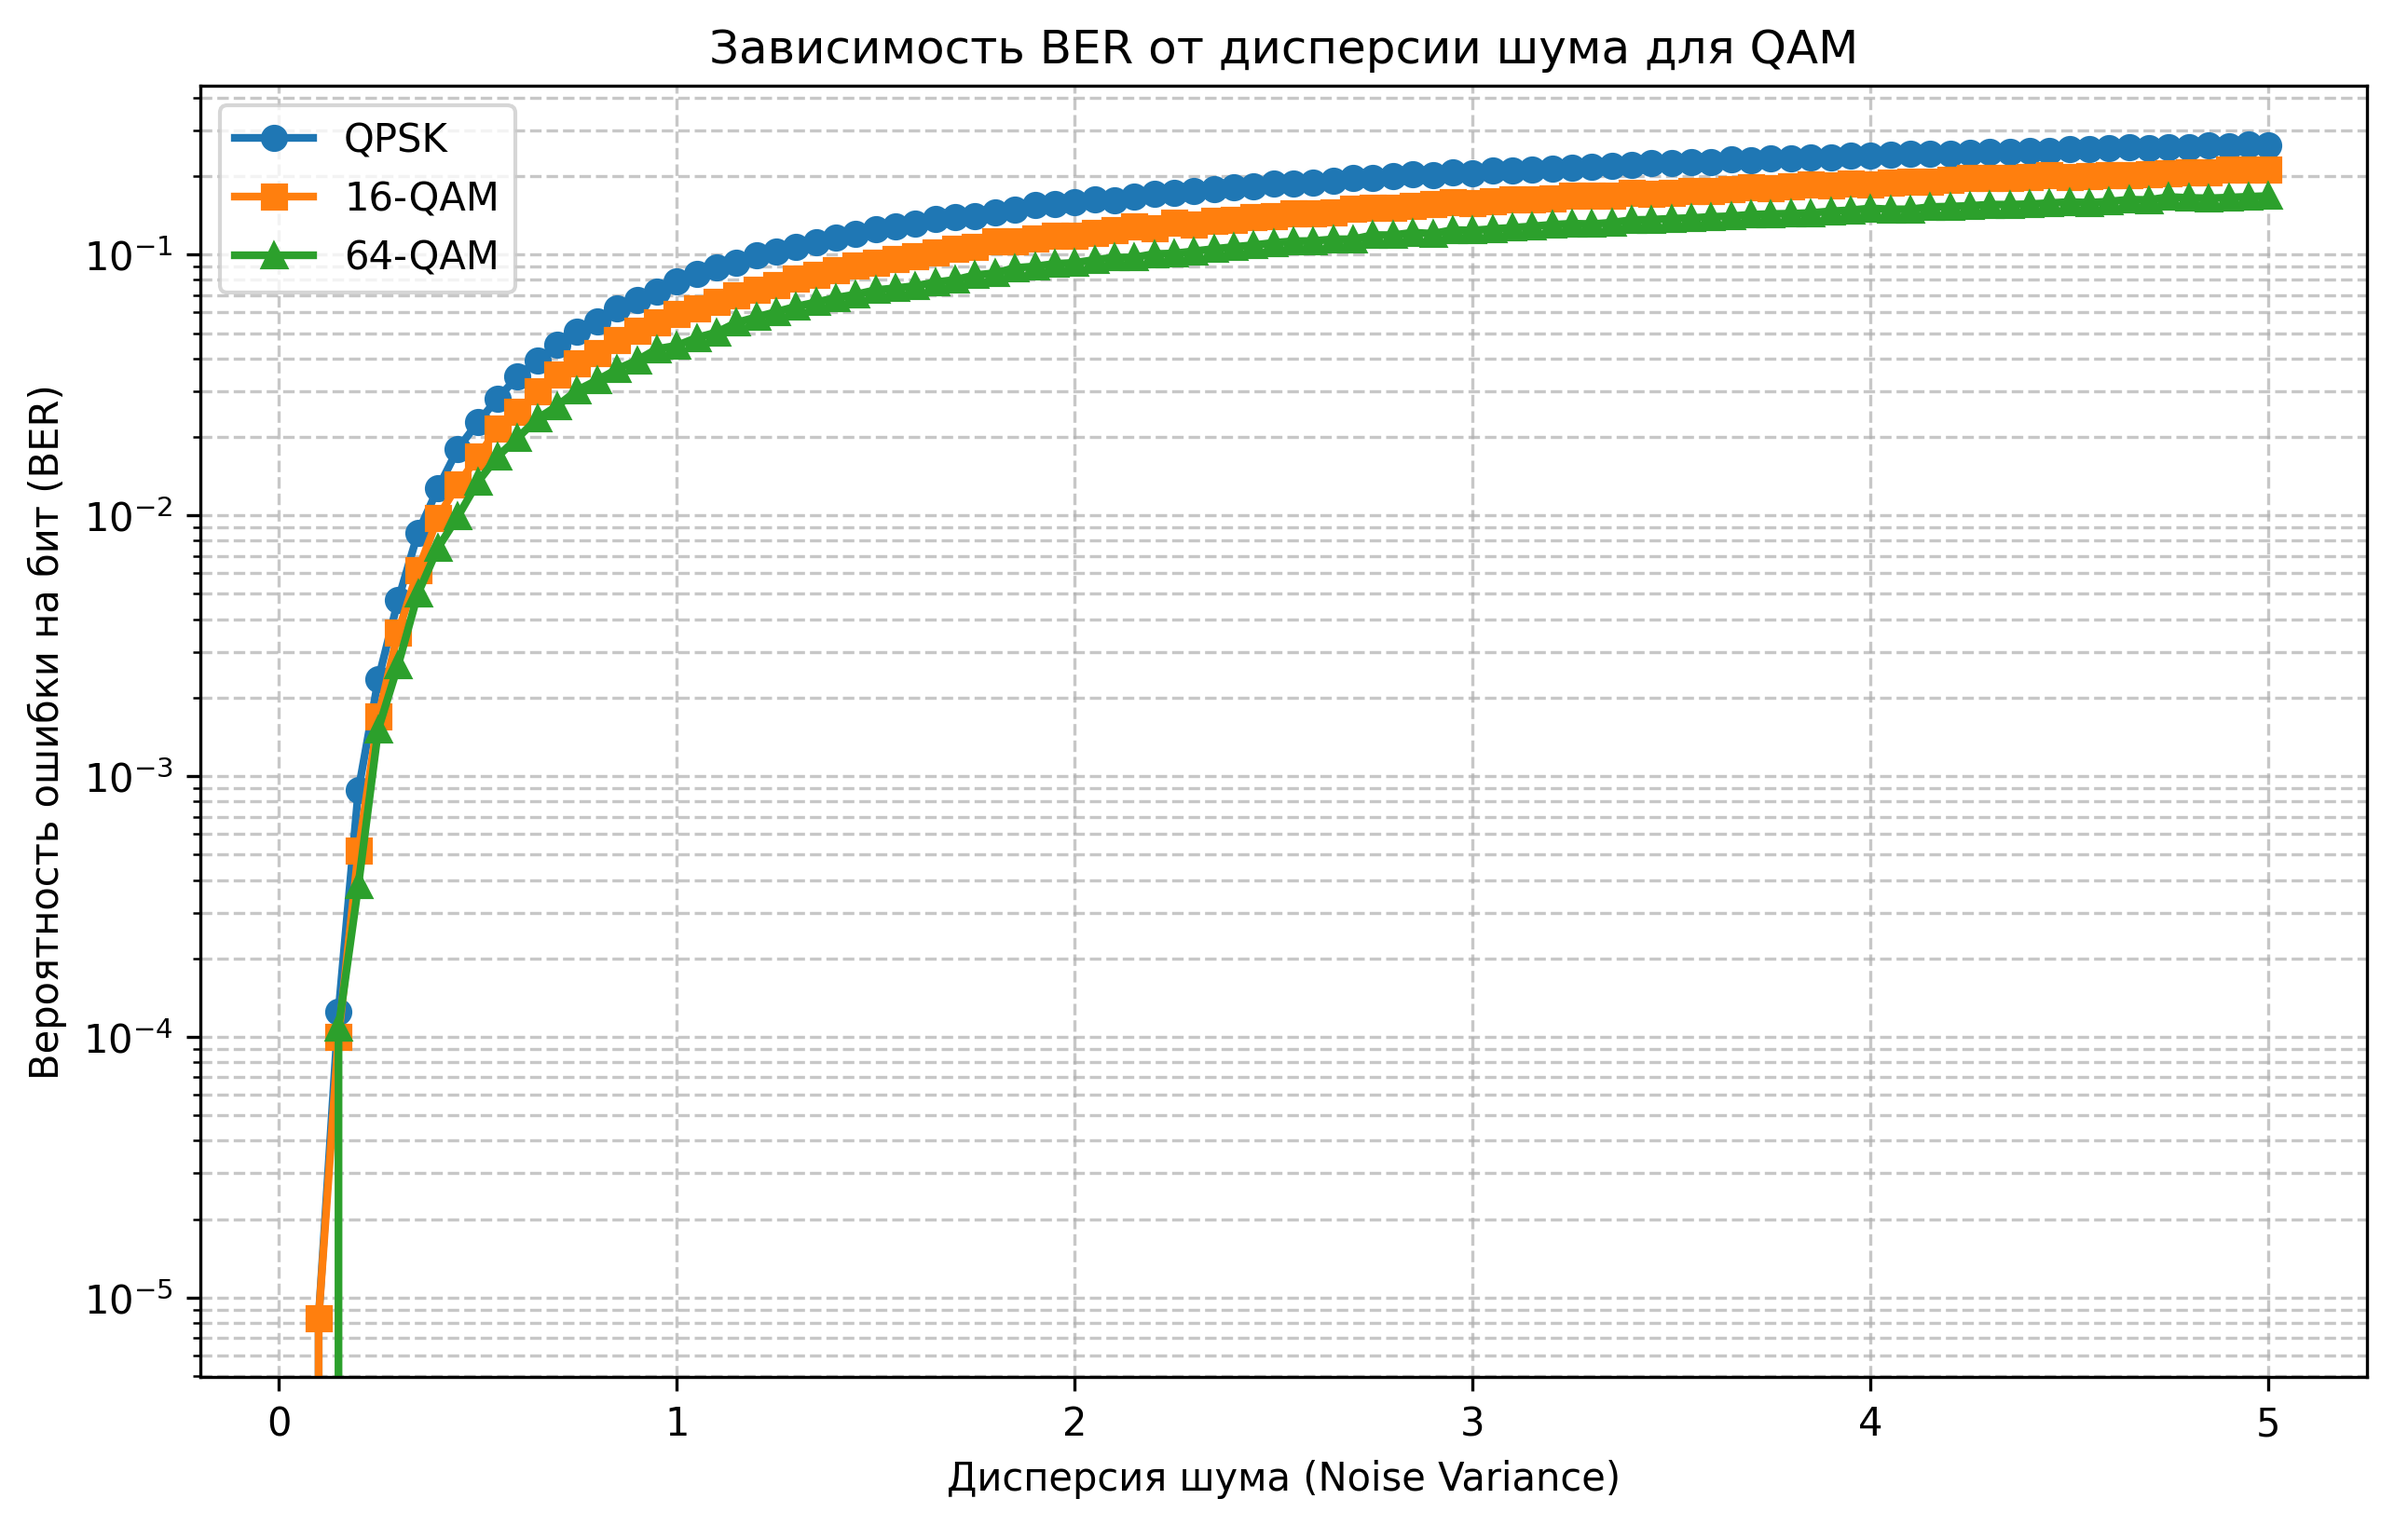
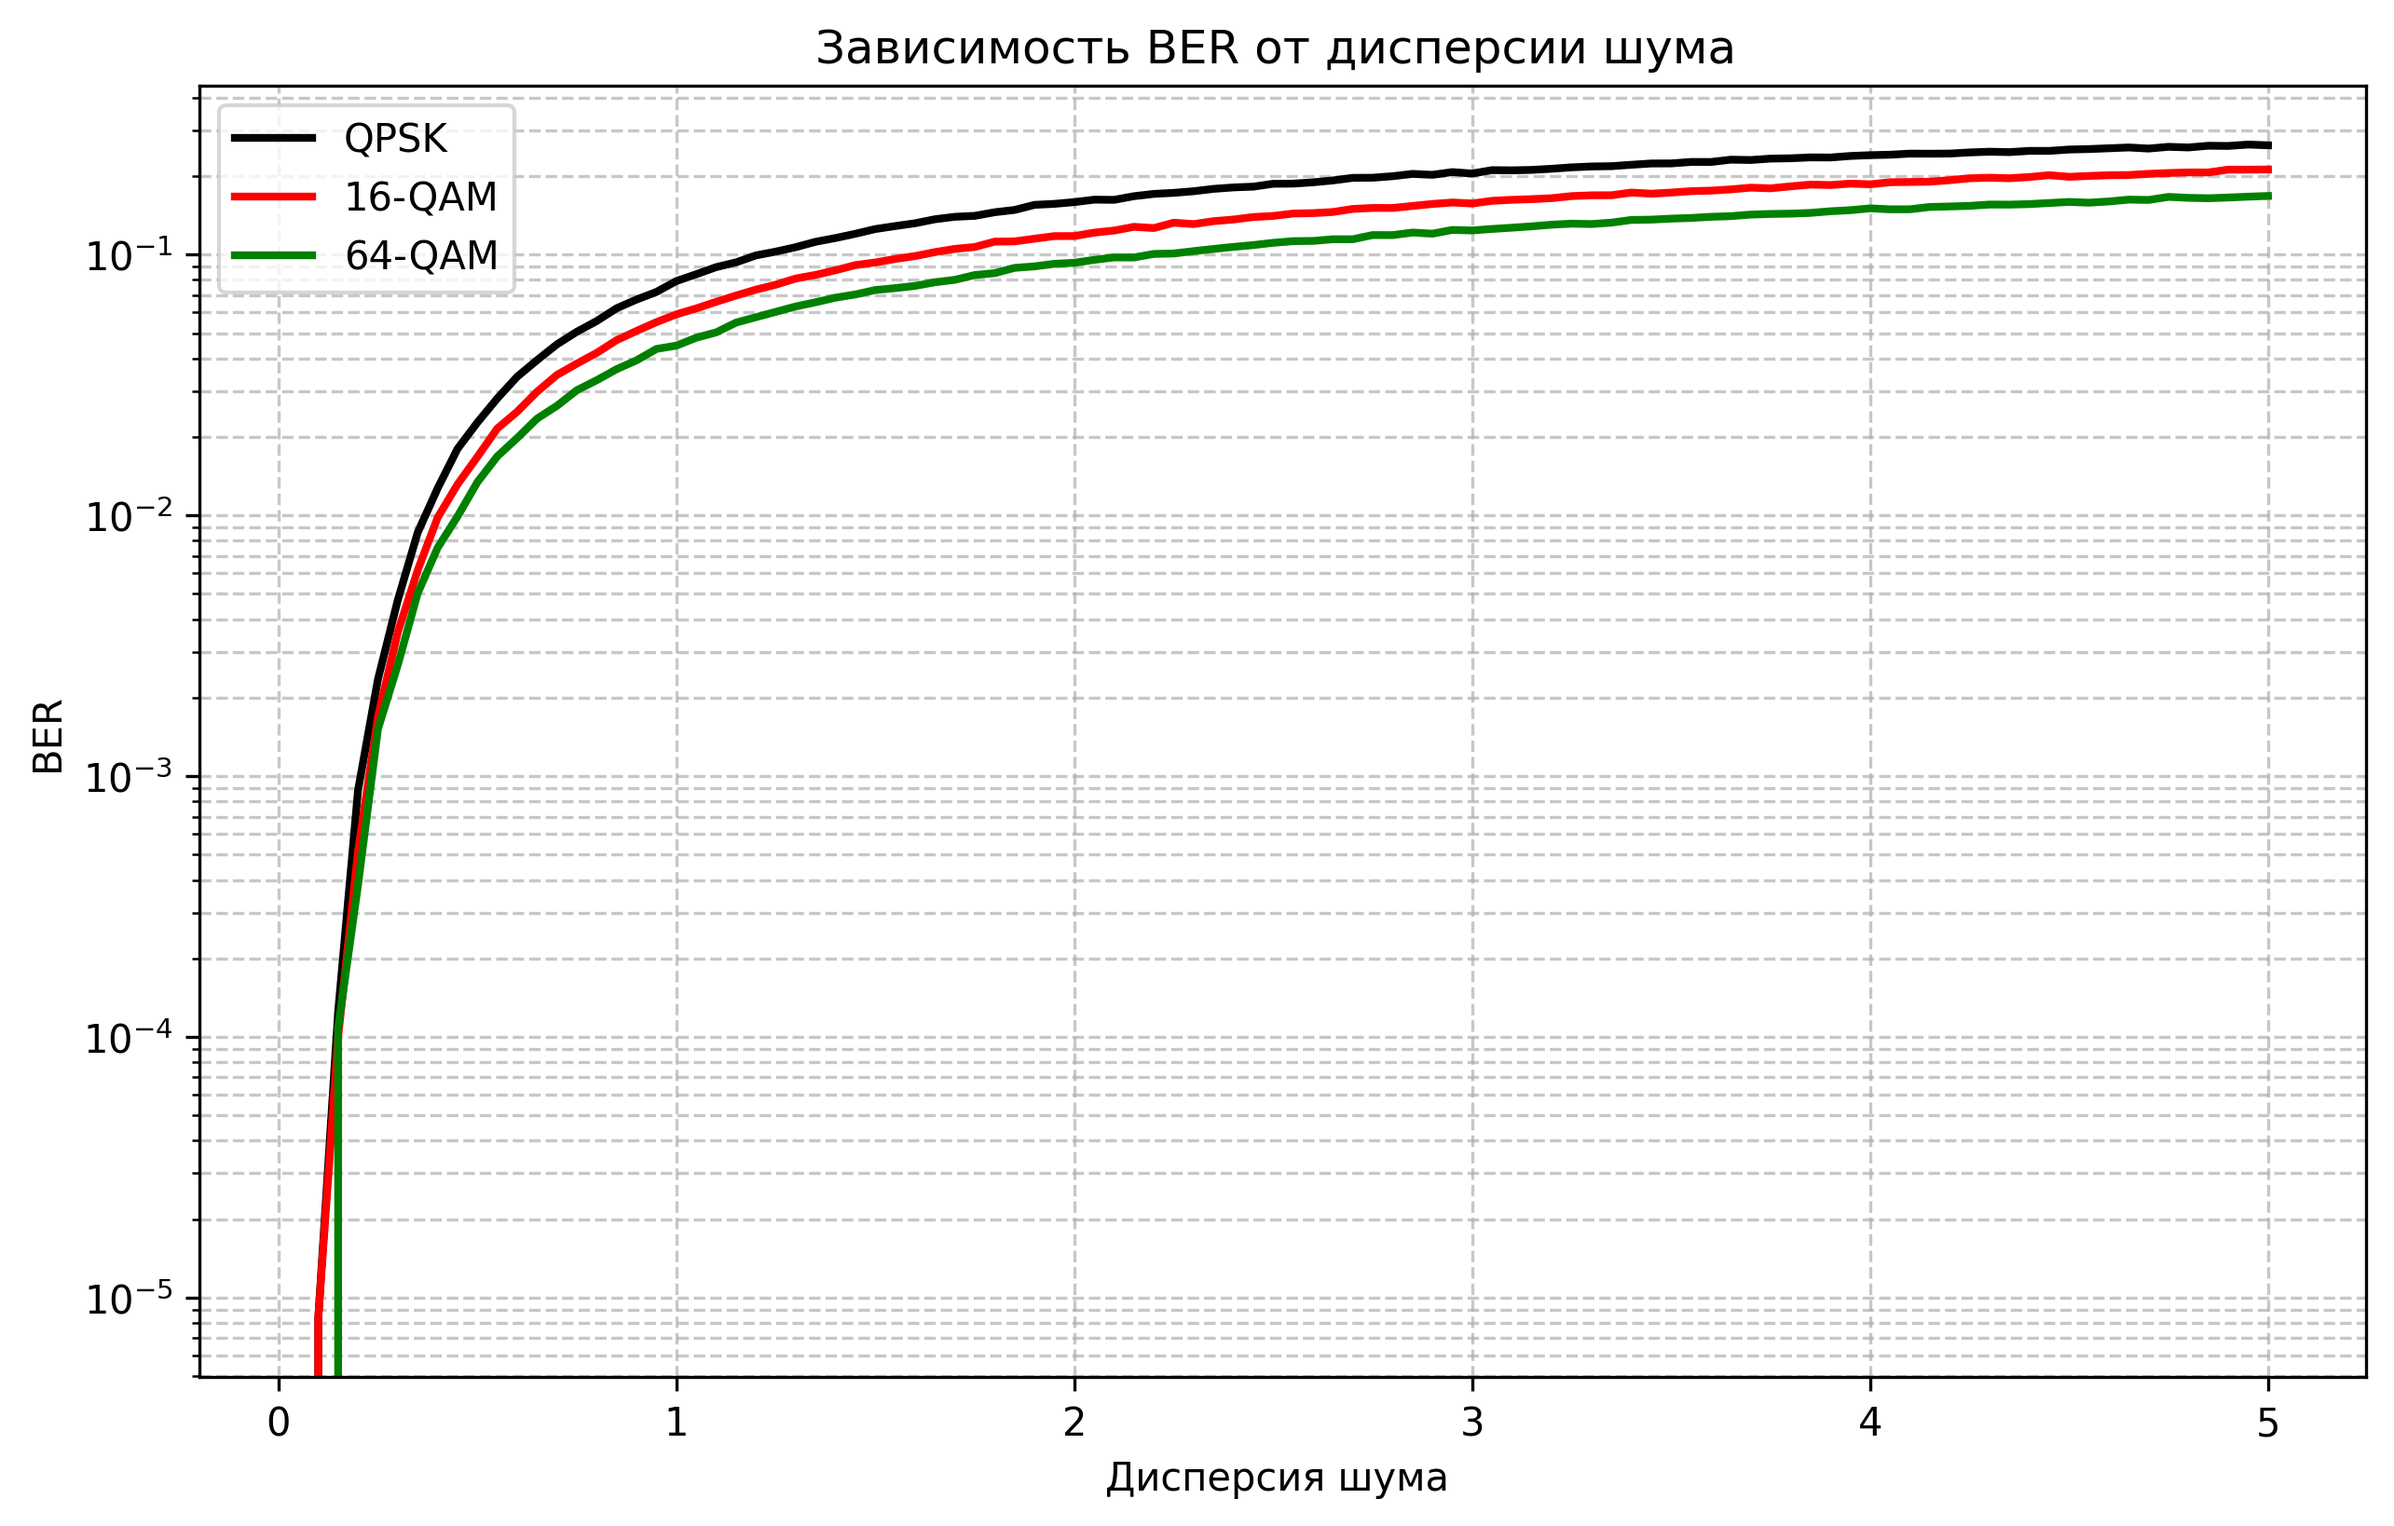
готовоо

diff --git a/python/graph.py b/python/graph.py
@@ -14,15 +14,15 @@ except FileNotFoundError:
 plt.figure(figsize=(10, 6))
 
 
-plt.plot(data['Variance'], data['BER_QPSK'], marker='o', linewidth=2, label='QPSK')
-plt.plot(data['Variance'], data['BER_QAM16'], marker='s', linewidth=2, label='16-QAM')
-plt.plot(data['Variance'], data['BER_QAM64'], marker='^', linewidth=2, label='64-QAM')
+plt.plot(data['Variance'], data['BER_QPSK'], linewidth=2, label='QPSK',color = 'black')
+plt.plot(data['Variance'], data['BER_QAM16'], linewidth=2, label='16-QAM' ,color = 'red')
+plt.plot(data['Variance'], data['BER_QAM64'], linewidth=2, label='64-QAM',color = 'green')
 
 
 plt.yscale('log') 
-plt.xlabel('Дисперсия шума (Noise Variance)')
-plt.ylabel('Вероятность ошибки на бит (BER)')
-plt.title('Зависимость BER от дисперсии шума для QAM')
+plt.xlabel('Дисперсия шума ')
+plt.ylabel('BER')
+plt.title('Зависимость BER от дисперсии шума ')
 
 
 plt.grid(True, which="both", ls="--", alpha=0.7)
@@ -30,7 +30,7 @@ plt.legend()
 
 
 plt.savefig('ber_plot.png', dpi=300, bbox_inches='tight')
-print("График успешно сохранен как ber_plot.png!")
+print("График готов")
 
 
 plt.show()

diff --git a/README.md b/README.md
@@ -1,0 +1,39 @@
+# Симуляция QAM Модуляции и AWGN канала
+
+Данный проект представляет собой программный комплекс на языке C++ для моделирования цепочки передачи цифрового сигнала: **Генерация бит → Модуляция → Добавление шума → Демодуляция**.
+
+
+
+## Особенности
+- Поддержка трех типов модуляции: **QPSK (4-QAM)**, **16-QAM**, **64-QAM**.
+- Реализация **AWGN-канала** (аддитивный белый гауссовский шум) с использованием современного генератора `std::mt19937`.
+- Демодуляция методом **жестких решений (Hard Decision)** на основе пороговых границ.
+- Автоматический сбор данных в формате `.csv` для последующего анализа.
+- Скрипт на Python для визуализации результатов (построение кривых BER).
+
+## Структура проекта
+- `include/` — заголовочные файлы (.h) с описанием интерфейсов классов.
+- `src/` — реализация логики на C++ (.cpp) и основной управляющий файл `main.cpp`.
+- `python/` — скрипт для построения графиков.
+- `results.csv` — генерируемые данные симуляции.
+
+## Математическая модель
+Симуляция базируется на модели канала с комплексным аддитивным шумом:
+$$r = s + n$$
+где $s$ — идеальный символ созвездия, а $n$ — комплексный шум, дисперсия которого делится поровну между вещественной (I) и мнимой (Q) составляющими.
+
+## Запуск проекта
+
+### 1. Требования
+- Компилятор C++ (поддержка C++11 и выше, например, `g++`).
+- Python 3.x с библиотеками `pandas` и `matplotlib`.
+
+### 2. Сборка и запуск симуляции
+Выполните следующие команды в терминале из корневой папки проекта:
+
+```bash
+# Компиляция проекта
+g++ src/main.cpp src/Modulator.cpp src/Channel.cpp src/Demodulator.cpp -I include -o simulation.exe
+
+# Запуск симуляции (создаст results.csv)
+./simulation.exe
